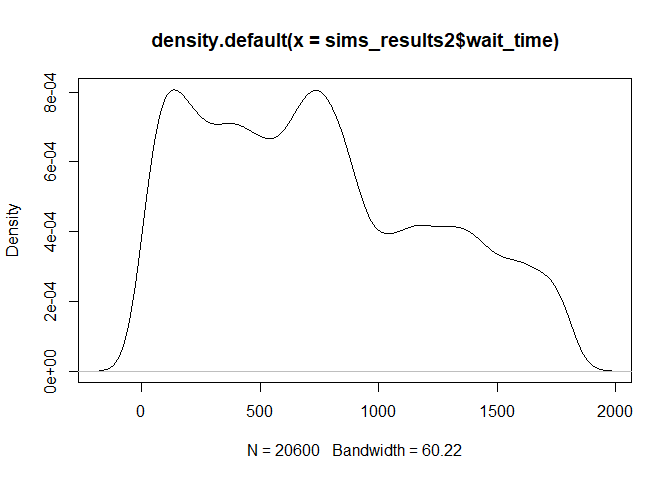
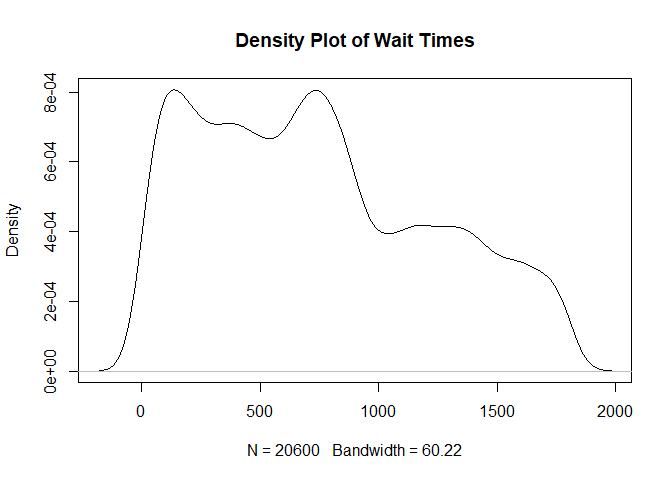
added exit time to functions and ran more sims

Changed region(s): [[0.2188, 0.0625, 0.8438, 0.125]]

diff --git a/Code/3_Simulations.md b/Code/3_Simulations.md
@@ -159,7 +159,7 @@ class(ferry_times) <- c('POSIXt', 'POSIXct')
 ## Normal noise
 
 ``` r
-norm_sims <- function(days,noise_mean, noise_sd, seed){
+norm_sims <- function(days,noise_mean, noise_sd, seed, exit_time){
   # Initiate data frame
   data <- NULL
   # Create timestamps for given # of days
@@ -174,7 +174,7 @@ norm_sims <- function(days,noise_mean, noise_sd, seed){
   data$noise <- round(data$noise,0)
   
   # Create updated arrival time
-  data$arrival <- data$schedule + data$noise
+  data$arrival <- data$schedule + data$noise + exit_time
   
   # return the data
   return(as.data.frame(data))
@@ -185,7 +185,7 @@ Test with 100
 days
 
 ``` r
-sim1 <- norm_sims(days = 100, noise_mean = 65, noise_sd = 30, seed = 10314)
+sim1 <- norm_sims(days = 100, noise_mean = 65, noise_sd = 30, seed = 10314, exit_time = 0)
 
 summary(sim1$noise)
 ```
@@ -202,7 +202,7 @@ plot(density(sim1$noise), main = "Lateness")
 ## Beta function
 
 ``` r
-beta_sims <- function(days,noise_beta, noise_alpha, seed){
+beta_sims <- function(days,noise_beta, noise_alpha, seed, exit_time){
   # Initiate data frame
   data <- NULL
   # Create timestamps for given # of days
@@ -219,7 +219,7 @@ beta_sims <- function(days,noise_beta, noise_alpha, seed){
   data$noise <- round(data$noise,0)
 
   # Create updated arrival time
-  data$arrival <- data$schedule + data$noise
+  data$arrival <- data$schedule + data$noise + exit_time
   
   # return the data
   return(as.data.frame(data))
@@ -230,7 +230,7 @@ Test with 100
 days
 
 ``` r
-sim1 <- beta_sims(days = 100, noise_beta = 120, noise_alpha = 30, seed = 10314)
+sim1 <- beta_sims(days = 100, noise_beta = 120, noise_alpha = 30, seed = 10314, exit_time = 0)
 
 summary(sim1$noise)
 ```
@@ -288,7 +288,7 @@ return(data)
 ## Normal with average delay of 2 minutes
 
 ``` r
-sims <- norm_sims(days = 100, noise_mean = 120, noise_sd = 60, seed = 10314)
+sims <- norm_sims(days = 100, noise_mean = 120, noise_sd = 60, seed = 10314, exit_time = 0)
 sims_results <- get_wait(sims)
 
 summary(sims_results$wait_time)
@@ -306,13 +306,13 @@ sum(sims_results$closest_ferry==sims_results$closest_ferry_predicted)/dim(sims_r
 
 ``` r
 # graph it
-plot(density(sims_results$wait_time))
+plot(density(sims_results$wait_time), main = "Density Plot of Wait Times")
 ```
 
 ![](3_Simulations_files/figure-gfm/unnamed-chunk-5-1.png)<!-- -->
 
 ``` r
-plot(y = sims_results$wait_time, x = sims_results$arrival)
+plot(y = sims_results$wait_time, x = sims_results$arrival, main = "", xlab = "Arrival Time", ylab = "Wait Time")
 ```
 
 ![](3_Simulations_files/figure-gfm/unnamed-chunk-5-2.png)<!-- -->
@@ -320,7 +320,7 @@ plot(y = sims_results$wait_time, x = sims_results$arrival)
 ## Normal with average delay of 4 minutes
 
 ``` r
-sims2 <- norm_sims(days = 100, noise_mean = 240, noise_sd = 120, seed = 10314)
+sims2 <- norm_sims(days = 100, noise_mean = 240, noise_sd = 120, seed = 10314, exit_time = 0)
 sims_results2 <- get_wait(sims2)
 
 # NOTE: current issue coming from some dates being made that are pushed onto the next day. Solution: added 12:30am ferry for next day so that it'll recognize that time stamp as teh closest
@@ -340,13 +340,13 @@ sum(sims_results2$closest_ferry==sims_results2$closest_ferry_predicted)/dim(sims
 
 ``` r
 # graph it
-plot(density(sims_results2$wait_time))
+plot(density(sims_results2$wait_time), main = "Density Plot of Wait Times")
 ```
 
 ![](3_Simulations_files/figure-gfm/unnamed-chunk-6-1.png)<!-- -->
 
 ``` r
-plot(y = sims_results2$wait_time, x = sims_results2$arrival)
+plot(y = sims_results2$wait_time, x = sims_results2$arrival, main = "", xlab = "Arrival Time", ylab = "Wait Time")
 ```
 
 ![](3_Simulations_files/figure-gfm/unnamed-chunk-6-2.png)<!-- -->
@@ -354,7 +354,7 @@ plot(y = sims_results2$wait_time, x = sims_results2$arrival)
 ## Beta with beta delay of 2 minutes
 
 ``` r
-sims3 <- beta_sims(days = 100, noise_beta = 120, noise_alpha = 30, seed = 10314)
+sims3 <- beta_sims(days = 100, noise_beta = 120, noise_alpha = 30, seed = 10314, exit_time = 0)
 sims_results3 <- get_wait(sims3)
 
 summary(sims_results3$wait_time)
@@ -372,13 +372,113 @@ sum(sims_results3$closest_ferry==sims_results3$closest_ferry_predicted)/dim(sims
 
 ``` r
 # graph it
-plot(density(sims_results3$wait_time))
+plot(density(sims_results3$wait_time), main = "Density Plot of Wait Times")
 ```
 
 ![](3_Simulations_files/figure-gfm/unnamed-chunk-7-1.png)<!-- -->
 
 ``` r
-plot(y = sims_results3$wait_time, x = sims_results3$arrival)
+plot(y = sims_results3$wait_time, x = sims_results3$arrival, main = "", xlab = "Arrival Time", ylab = "Wait Time")
 ```
 
 ![](3_Simulations_files/figure-gfm/unnamed-chunk-7-2.png)<!-- -->
+
+## Normal with average delay of 2 minutes + 2 minutes to exit station
+
+``` r
+sims4 <- norm_sims(days = 100, noise_mean = 120, noise_sd = 60, seed = 10314, exit_time = 120)
+sims_results4 <- get_wait(sims4)
+
+summary(sims_results4$wait_time)
+```
+
+    ##    Min. 1st Qu.  Median    Mean 3rd Qu.    Max. 
+    ##     1.0   310.0   686.0   704.2  1054.0  1800.0
+
+``` r
+# % different from their actual connections?
+sum(sims_results4$closest_ferry==sims_results4$closest_ferry_predicted)/dim(sims_results4)[1]
+```
+
+    ## [1] 0.8262621
+
+``` r
+# graph it
+plot(density(sims_results4$wait_time), main = "Density Plot of Wait Times")
+```
+
+![](3_Simulations_files/figure-gfm/unnamed-chunk-8-1.png)<!-- -->
+
+``` r
+plot(y = sims_results4$wait_time, x = sims_results4$arrival, main = "", xlab = "Arrival Time", ylab = "Wait Time")
+```
+
+![](3_Simulations_files/figure-gfm/unnamed-chunk-8-2.png)<!-- -->
+
+## Normal with average delay of 4 minutes + 2 minutes to exit the station
+
+``` r
+sims5 <- norm_sims(days = 100, noise_mean = 240, noise_sd = 120, seed = 10314, exit_time = 120)
+# add the 2 minutes to exit station
+sims5$arrival <- sims5$arrival + 120
+sims_results5 <- get_wait(sims5)
+
+summary(sims_results5$wait_time)
+```
+
+    ##    Min. 1st Qu.  Median    Mean 3rd Qu.    Max. 
+    ##     1.0   361.0   693.0   766.6  1127.2  1800.0
+
+``` r
+# % different from their actual connections?
+sum(sims_results5$closest_ferry==sims_results5$closest_ferry_predicted)/dim(sims_results5)[1]
+```
+
+    ## [1] 0.6138835
+
+``` r
+# graph it
+plot(density(sims_results5$wait_time), main = "Density Plot of Wait Times")
+```
+
+![](3_Simulations_files/figure-gfm/unnamed-chunk-9-1.png)<!-- -->
+
+``` r
+plot(y = sims_results5$wait_time, x = sims_results5$arrival, main = "", xlab = "Arrival Time", ylab = "Wait Time")
+```
+
+![](3_Simulations_files/figure-gfm/unnamed-chunk-9-2.png)<!-- -->
+
+## Beta with beta delay of 2 minutes + 2 minutes to exit station
+
+``` r
+sims6 <- beta_sims(days = 100, noise_beta = 120, noise_alpha = 30, seed = 10314, exit_time = 120)
+# add the 2 minutes to exit station
+sims6$arrival <- sims6$arrival + 120
+sims_results6 <- get_wait(sims6)
+
+summary(sims_results6$wait_time)
+```
+
+    ##    Min. 1st Qu.  Median    Mean 3rd Qu.    Max. 
+    ##    39.0   346.0   648.0   671.6  1065.0  1793.0
+
+``` r
+# % different from their actual connections?
+sum(sims_results6$closest_ferry==sims_results6$closest_ferry_predicted)/dim(sims_results6)[1]
+```
+
+    ## [1] 0.8058252
+
+``` r
+# graph it
+plot(density(sims_results6$wait_time), main = "Density Plot of Wait Times")
+```
+
+![](3_Simulations_files/figure-gfm/unnamed-chunk-10-1.png)<!-- -->
+
+``` r
+plot(y = sims_results6$wait_time, x = sims_results6$arrival, main = "", xlab = "Arrival Time", ylab = "Wait Time")
+```
+
+![](3_Simulations_files/figure-gfm/unnamed-chunk-10-2.png)<!-- -->
